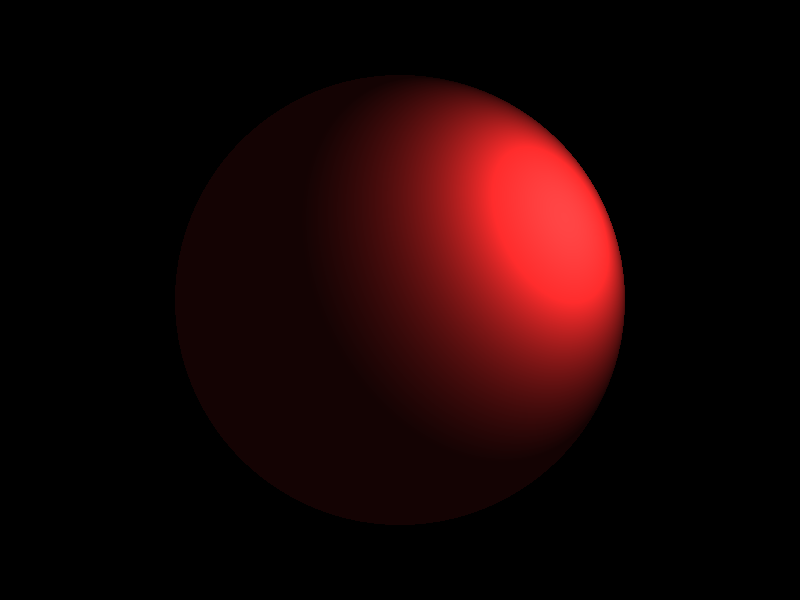
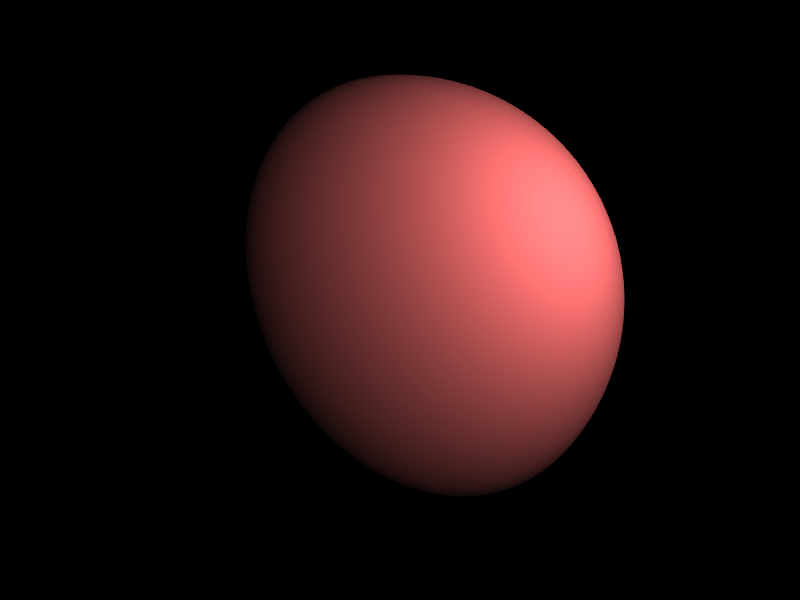
January 2021 - Added render time & Anti-Aliasing

Changed region(s): [[0.3125, 0.12, 0.7812, 0.81]]

diff --git a/jan2021/main.c b/jan2021/main.c
@@ -1,5 +1,6 @@
 #include <stdio.h>
 #include <math.h>
+#include <time.h>
 
 #ifndef M_PI
 #define M_PI 3.1415926535
@@ -17,6 +18,7 @@
 enum { WIDTH = 800, HEIGHT = 600 };
 const double FOV = 90.0;
 const double A_R = (double)WIDTH/(double)HEIGHT;
+const int    SS  = 10;
 
 struct Vec3
 {
@@ -45,6 +47,14 @@ struct Vec3 vec3_scale(struct Vec3 *a, double b)
 {
 	struct Vec3 out = {
 		a->x * b, a->y * b, a->z * b
+	};
+	return out;
+}
+
+struct Vec3 vec3_div(struct Vec3 *a, double b)
+{
+	struct Vec3 out = {
+		a->x / b, a->y / b, a->z / b
 	};
 	return out;
 }
@@ -83,7 +93,7 @@ struct Sphere
 	double r;
 };
 
-struct Ray create_ray(int x, int y);
+struct Ray create_ray(double x, double y);
 
 int sphere_hit(struct Ray *r, struct Sphere *sp, double *t);
 
@@ -91,9 +101,19 @@ struct Vec3 sphere_normal(struct Vec3 *sp_o , struct Vec3 *hit);
 
 void swap(double*, double*);
 
+double gamma_encode(double a)
+{
+	return pow(a, 1.0/GAMMA);
+}
+
 void print_vec3(struct Vec3 *a)
 {
 	printf("[%f, %f, %f]\n", a->x, a->y, a->z);
+}
+
+double rand_2()
+{
+	return (double)rand() / (double)RAND_MAX;
 }
 
 int main(void)
@@ -102,41 +122,58 @@ int main(void)
 	struct Sphere sp = {{0.0, 0.0, -5.0}, 3.0};
 	struct Sphere light = {{2.0, 1.0, -1.0}, 5.0};
 
+	clock_t begin = clock();
+
 	for (int y = 0; y < HEIGHT; y++)
 	{
 		for (int x = 0; x < WIDTH; x++)
 		{
-			struct Ray ray = create_ray(x, y);
+			struct Vec3 out_col = {0.0, 0.0, 0.0};
 
-			int pos = (WIDTH*3 * y) + (3 * x);
-
-			double t;
-
-			if (sphere_hit(&ray, &sp, &t))
+			for (int s = 0; s < SS; s++)
 			{
-				struct Vec3 dist = vec3_scale(&ray.d, t);
-				struct Vec3 hit_p = vec3_add(&ray.o, &dist);
-				struct Vec3 norml = sphere_normal(&sp.o, &hit_p);
-				struct Vec3 light_v = vec3_sub(&light.o, &hit_p);
-				struct Vec3 light_n = vec3_norm(&light_v);
-				double l_int = max(vec3_dot(&norml, &light_n) * light.r / pow(vec3_mag(&light_v), 2.0), 0.1);
-				data[pos + 0] = to_rgb((200.0/255.0)*l_int);
-				data[pos + 1] = to_rgb((35.0/255.0)*l_int);
-				data[pos + 2] = to_rgb((35.0/255.0)*l_int);
+				// struct Ray ray = create_ray(x, y);
+				struct Ray ray = create_ray((double)x + rand_2(), (double)y + rand_2());
+
+				double t;
+
+				if (sphere_hit(&ray, &sp, &t))
+				{
+					struct Vec3 dist = vec3_scale(&ray.d, t);
+					struct Vec3 hit_p = vec3_add(&ray.o, &dist);
+					struct Vec3 norml = sphere_normal(&sp.o, &hit_p);
+					struct Vec3 light_v = vec3_sub(&light.o, &hit_p);
+					struct Vec3 light_n = vec3_norm(&light_v);
+					double l_int = vec3_dot(&norml, &light_n) * light.r / pow(vec3_mag(&light_v), 2.0);
+					struct Vec3 col = {gamma_encode((200.0 / 255.0) * l_int), gamma_encode((35.0 / 255.0) * l_int), gamma_encode((35.0 / 255.0) * l_int)};
+					out_col = vec3_add(&out_col, &col);
+				}
 			}
+
+			out_col = vec3_div(&out_col, SS);
+
+			int pos = (WIDTH * 3 * y) + (3 * x);
+
+			data[pos + 0] = to_rgb(out_col.x);
+			data[pos + 1] = to_rgb(out_col.y);
+			data[pos + 2] = to_rgb(out_col.z);
 		}
 	}
 
+	clock_t end = clock();
+
 	stbi_write_png("out.png", WIDTH, HEIGHT, 3, data, WIDTH*3);
+
+	printf("Time rendering: %f s\n", (double)(end - begin)/CLOCKS_PER_SEC);
 
 	return 0;
 }
 
-struct Ray create_ray(int x, int y)
+struct Ray create_ray(double x, double y)
 {
 	double fov = tan(to_radians(FOV) / 2.0);
-	double r_x = ((((double)x + 0.5) / WIDTH) * 2.0 - 1.0) * A_R * fov;
-	double r_y = (1.0 - (((double)y + 0.5) / HEIGHT) * 2.0) * fov;
+	double r_x = (((x + 0.5) / WIDTH) * 2.0 - 1.0) * A_R * fov;
+	double r_y = (1.0 - ((y + 0.5) / HEIGHT) * 2.0) * fov;
 
 	struct Vec3 dir = {
 		r_x, r_y, -1.0
